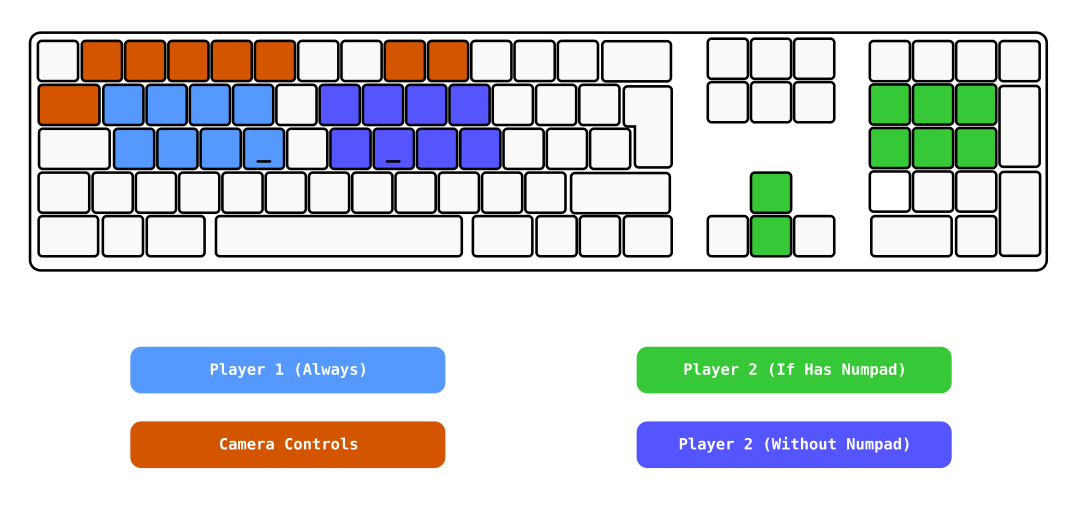
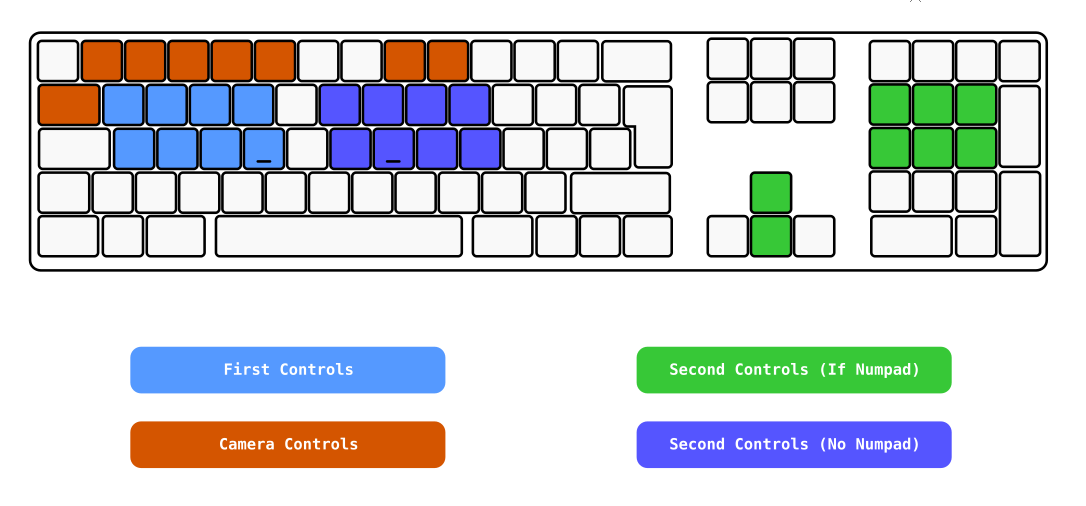
chore: separated game mode READMEs

Changed region(s): [[0.6077, 0.8597, 0.8508, 0.8893], [0.6077, 0.7115, 0.8508, 0.7411], [0.1823, 0.7115, 0.3343, 0.7411]]

diff --git a/COOPERATIVE.md b/COOPERATIVE.md
@@ -1,0 +1,69 @@
+<div align="center">
+  <h1>🤝🏻 Cooperative</h1>
+  <p></p>
+</div>
+
+In the cooperative version, players must play on the same screen. The game is designed to be played with two players, it is not possible to play alone. The goal of this version is to reach the end of the level by working together, as they will need to help each other to overcome obstacles. At the end of the level, players will need to confront each other in a final battle to determine the winner.
+
+## 🛠 How to Play
+
+Go ahead and download the game from the [releases page](https://github.com/iivvaannxx/isolated/releases/tag/1.0.0) for your operating system. Then follow the instructions below.
+
+### Windows
+
+1. Download the `IsolatedCooperative_Windows.zip` file.
+2. Extract the contents of the zip file on your preferred location.
+3. Run the `Isolated.exe` file.
+
+### Linux
+1. Download the `IsolatedCooperative_Linux.zip` file from the releases page.
+2. Extract the contents of the zip file on your preferred location.
+3. Run the `Isolated` executable via the following commands:
+```bash
+# Ensure the file is executable.
+chmod +x Isolated
+./Isolated
+```
+After doing this you will be presented with the setup scene I mentioned before. Configure your input device and start playing!
+
+> [!WARNING]
+> There's a known bug where the game allows you to control both players with the same gamepad. If you select a gamepad as the input device for both players and it's the same, you will be moving both players at the same time, and the game will be unplayable. To avoid this, make sure to use different gamepads for each player. If you use a keyboard for both, don't worry, the controls will be different for each player (explained below).
+
+## 🎮 Controls
+
+The controls depend on the input device you choose and whether you are player 1 or player 2. Because you can play with either a keyboard or a gamepad, there are three possible configurations.
+
+### Case 1: Gamepad for both players
+
+Each gamepad works the same, assuming they are different (read the warning above). The controls are as follows:
+
+<div align="center">
+
+| Move (Left / Right) | Jump | Crouch | Shoot | Reload | Aim (Up / Down) |
+|---------------------|------|--------|-------|--------|-----------------|
+| Left Stick | South Button | East Button | Right Trigger | West Button | Right Stick |
+
+</div>
+
+> [!NOTE]
+> For example, for a typical PlayStation controller, jump would be `X`, crouch would be `O`, shoot would be `R2`, and reload would be `Square`.
+
+### Case 2: Keyboard for both players
+
+![Controls](./.github/assets/controls.png)
+
+This may look a bit confusing, but it's actually quite simple. The first player will always use the **blue** controls, and the second player will use the **green** or **purple** controls depending if the keyboard has a numpad or not.
+
+<div align="center">
+
+| Numpad | Player | Move (Left / Right) | Jump | Crouch | Shoot | Reload | Aim (Up / Down) |
+| --- | --- | --- | --- | --- | --- | --- | --- |
+| \*  | P1  | `A` / `D` Keys | `W` Key | `S` Key | `Q` Key | `E` Key | `R` / `F` Keys |
+| ✅   | P2  | `4` / `6` Keys | `8` Key | `5` Key | `7` Key | `9` Key | `Up` / `Down` Keys |
+| ❌   | P2  | `J` / `L` Keys | `I` Key | `K` Key | `O` Key | `U` Key | `Y` / `H` Keys |
+
+</div>
+
+### Case 3 (Mixed): Gamepad for one player and keyboard for the other
+
+This case is very simple, one player will use the controls listed in the [first case](#case-1-gamepad-for-both-players), and the other player will use **always** the **first set of controls** listed in the [second case](#case-2-keyboard-for-both-players) (blue), regardless of the keyboard configuration.

diff --git a/README.md b/README.md
@@ -54,59 +54,6 @@ Just do as it says; If you want to use the keyboard, press any key and it will b
 Let's see how to play each version!
 
 
-## 🤝🏻 Cooperative
-
-In the cooperative version, players must play on the same screen. The game is designed to be played with two players, it is not possible to play alone. The goal of this version is to reach the end of the level by working together, as they will need to help each other to overcome obstacles. At the end of the level, players will need to confront each other in a final battle to determine the winner.
-
-### How to Play
-
-Go ahead and download the game from the [releases page](https://github.com/iivvaannxx/isolated/releases/tag/1.0.0) for your operating system. Then follow the instructions below.
-
-#### Windows
-
-1. Download the `IsolatedCooperative_Windows.zip` file.
-2. Extract the contents of the zip file on your preferred location.
-3. Run the `Isolated.exe` file.
-
-#### Linux
-1. Download the `IsolatedCooperative_Linux.zip` file from the releases page.
-2. Extract the contents of the zip file on your preferred location.
-3. Run the `Isolated` executable via the following commands:
-```bash
-# Ensure the file is executable.
-chmod +x Isolated
-./Isolated
-```
-
-After doing this you will be presented with the setup scene I mentioned before. Configure your input device and start playing!
-
-> [!WARNING]
-> There's a known bug where the game allows you to control both players with the same gamepad. If you select a gamepad as the input device for both players and it's the same, you will be moving both players at the same time, and the game will be unplayable. To avoid this, make sure to use different gamepads for each player. If you use a keyboard for both, don't worry, the controls will be different for each player (explained below).
-
-### Controls
-
-The controls depend on the input device you choose and whether you are player 1 or player 2. Because you can play with either a keyboard or a gamepad, there are three possible configurations. Before explaining each one, look at this image:
-
-![Controls](./.github/assets/controls.png)
-
-As you can see, the player 2 may have different controls depending on the type of keyboard used. If the keyboard has a numpad (not all laptops have it), his controls will be the **green** ones. If it doesn't have a numpad, the controls will be the **purple** ones. The controls of the player 1 **never change**, they are always the **blue** ones. The **red** controls are used to control the different cameras.
-
-<div align="center">
-
-| Numpad | Player | Move (Left / Right) | Jump | Crouch | Shoot | Reload | Aim (Up / Down) |
-|--------|--------|----------------------|------|--------|-------|-------|---------|
-| *  | P1 | `A` / `D` Keys | `W` Key | `S` Key | `Q` Key | `E` Key | `R` / `F` Keys |
-| ✅ | P2 | `4` / `6` Keys | `8` Key | `5` Key | `7` Key | `9` Key | `Up` / `Down` Keys |
-| ❌ | P2 | `J` / `L` Keys | `I` Key | `K` Key | `O` Key | `U` Key | `Y` / `H` Keys |
-
-</div>
-
-
-
-
-
-
-### Walkthrough
 
 ## 👥 Multiplayer
 
